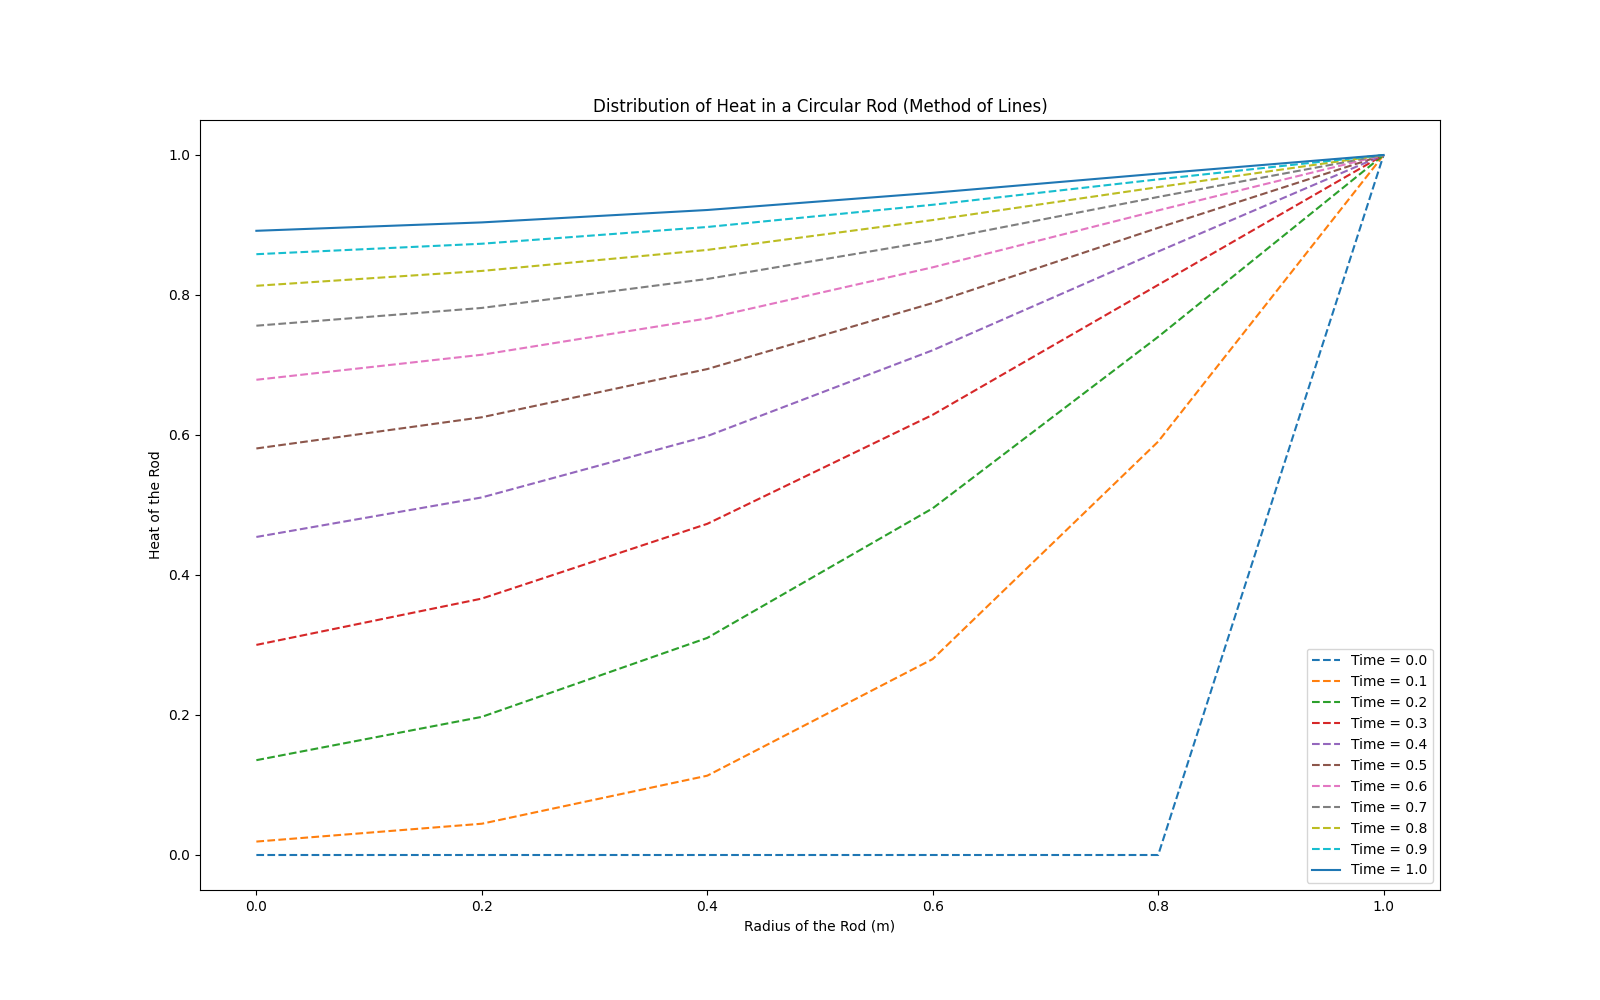
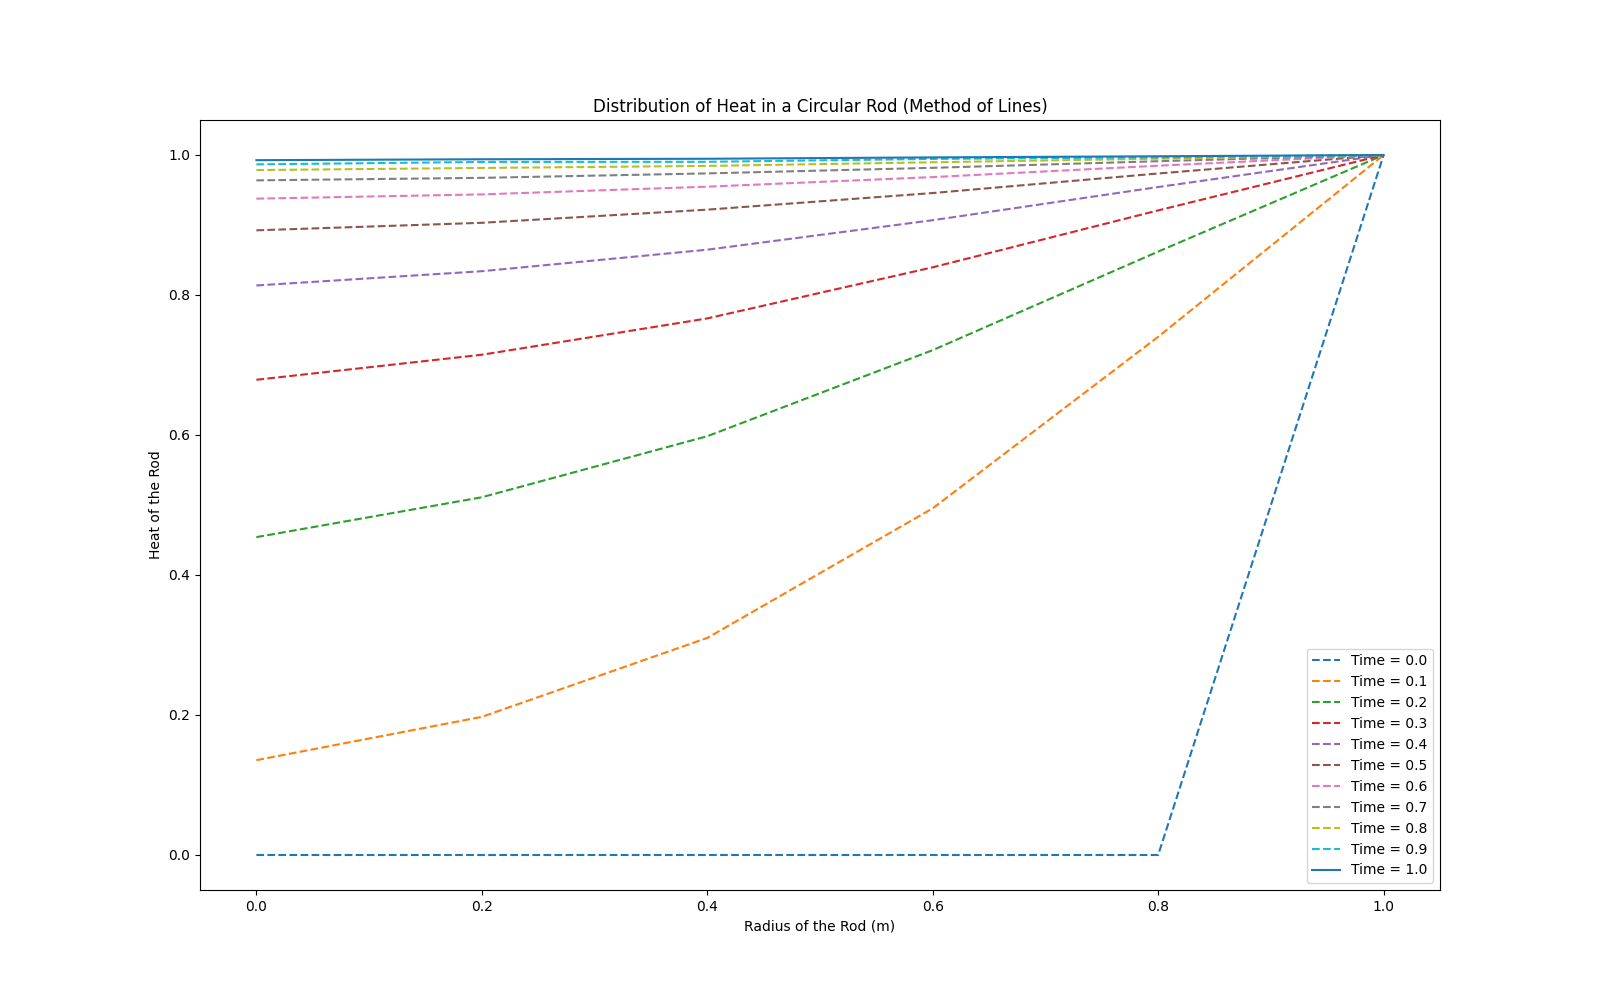
Fixed Method of Lines

Changed region(s): [[0.1562, 0.155, 0.875, 0.248], [0.2188, 0.217, 0.375, 0.279]]

diff --git a/Assignments/Assignment 4/MethodOfLines.py b/Assignments/Assignment 4/MethodOfLines.py
@@ -24,7 +24,7 @@ rNodes = int((rEnd - rInit)/dr + 1)
 rVals = np.linspace(rInit, rEnd, rNodes)
 
 # Define Lambda
-lam = 1/(2*dr**2)
+lam = 1/(dr**2)
 
 #Using t instead of z
 # Define dt the Start, End and Number of Time Nodes, and create the array of Values
